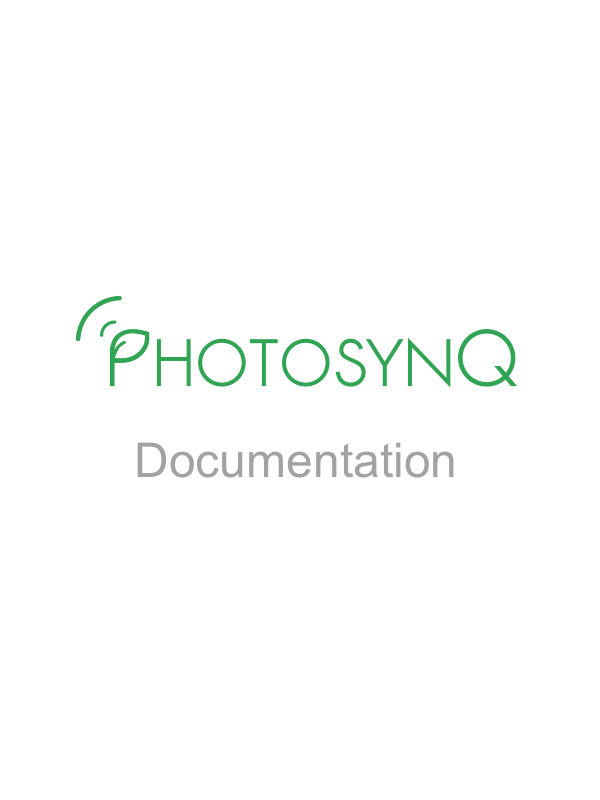
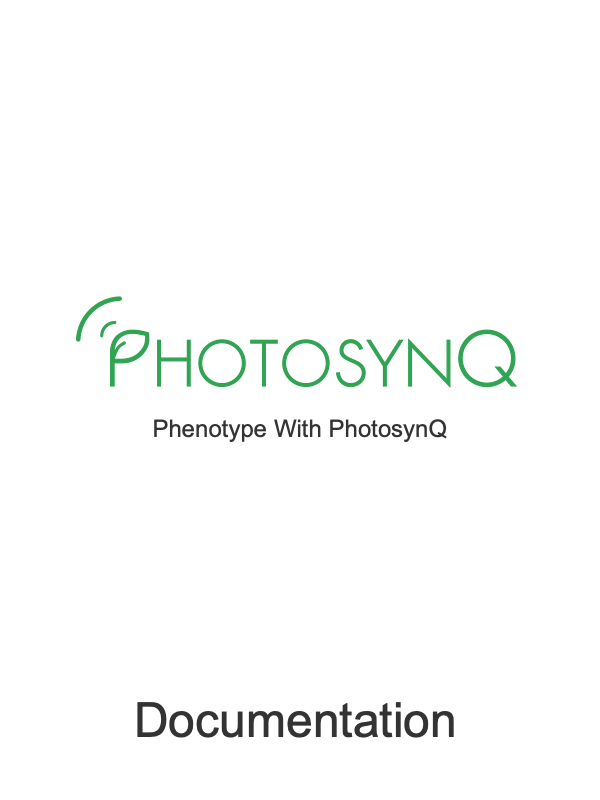
Update ebook
Adding figure legends, new cover, remove Contents title in TOC

diff --git a/index.js b/index.js
@@ -437,9 +437,7 @@ var createPDF = function (options){
 	});
 };
 
-
 var createEPUB = function (){
-
 	var cwd = jetpack.cwd();
 
     var option = {
@@ -450,6 +448,9 @@ var createEPUB = function (){
 		css: jetpack.read( jetpack.path( cwd, 'src', 'css', 'epub.css' ) ), // sting with css
 		// fonts: ,
 		lang: 'en',
+		tocTitle: 'Contents',
+		customHtmlTocTemplatePath: jetpack.path( cwd, 'src', 'templates', 'toc.xhtml.ejs' ),
+		customOpfTemplatePath: './src/templates/content.opf.ejs',
         cover: jetpack.path( cwd, 'src', 'css', 'epub-cover.png' ), // Url or File path, both ok.
 		content: [],
 		remarkable: {
@@ -470,6 +471,20 @@ var createEPUB = function (){
 		if(process.argv[i].match(/^-o|--output/)){
 			if(process.argv[(parseInt(i)+1)] !== undefined){
 				output = process.argv[(parseInt(i)+1)];
+			}
+			collect = false;
+			continue;
+		}
+		if(process.argv[i].match(/^-d|--date/)){
+			if(process.argv[(parseInt(i)+1)] !== undefined){
+				option.date = process.argv[(parseInt(i)+1)];
+			}
+			collect = false;
+			continue;
+		}
+		if(process.argv[i].match(/^-v|--version/)){
+			if(process.argv[(parseInt(i)+1)] !== undefined){
+				option.version = process.argv[(parseInt(i)+1)];
 			}
 			collect = false;
 			continue;
@@ -540,16 +555,56 @@ var createEPUB = function (){
 				chapters[chapterTitle] = "";
 				continue;
 			}
+			if(_html[i].match(/^<li>/)){
+				chapters[chapterTitle] += _html[i].replace(/^(\<li\>\s{0,})(\[x\])/i, "$1");
+				continue;
+			}
+			if(_html[i].match(/<em>Tip:<\/em>/)){
+				chapters[chapterTitle] += _html[i].replace(/^<p>/i, '<p class="tip">');
+				continue;
+			}
+			if(_html[i].match(/<em>Note:<\/em>/)){
+				chapters[chapterTitle] += _html[i].replace(/^<p>/i, '<p class="note">');
+				continue;
+			}
+			if(_html[i].match(/<img\/?[^>]+(>|$)/g)){
+				var img = '';
+				img += '<figure>';
+				img += _html[i].match(/<img\/?[^>]+(>|$)/)[0];
+				img += '<figcaption>';
+				var mdParser = new Remarkable(option.remarkable);
+				img += mdParser.render(_html[i].match(/(alt=)(\"([^>]+)(\"|$))/)[3]).replace(/<\/?p>/g, '');
+				img += '</figcaption>';
+				img += '</figure>';
+				chapters[chapterTitle] += _html[i].replace(/<img\/?[^>]+(>|$)/, img);
+				continue;
+			}
 			if(chapterTitle){
-				chapters[chapterTitle] += _html[i].replace(/images/i, jetpack.path(cwd, 'images'));
+				chapters[chapterTitle] += _html[i];
 			}
 		}
+		var date = moment(option.date).format('LL') || moment().format('LL');
+		var version = option.version || "unknown";
+
+		var header = '<div style="margin-top:45%; text-align:center">';
+			header += '<p>PhotosynQ Documentation</p>';
+			header += '<small>Modified: '+date+'</small><br>';
+			header += '<small>Version: '+version+'</small>';
+		header += '</div>';
+
+		option.content.push({
+			data: header,
+			excludeFromToc: true,
+			beforeToc: false
+		});
+
 		for(var c in chapters){
 			option.content.push({
 				title: entities.decode(c),
 				data: chapters[c]
 			});
 		}
+
 		new epub(option, output);
 		jetpack.remove(jetpack.path( cwd, 'dist', 'temp.md' ));
 	});
@@ -606,6 +661,8 @@ program
 	.option('-o, --output <output>','ePub File')
 	.option('-t, --title [title]','Ebook Title')
 	.option('-a, --author','Ebook Author(s)')
+	.option('-v, --version <version>','Version (Github tag)')
+	.option('-d, --date <date>','Release Date')
 	.description('Generate ePub from Markdown')
 	.action(createEPUB);
 

diff --git a/src/css/epub.css b/src/css/epub.css
@@ -1,7 +1,23 @@
+body {
+    font-family: "Times New Roman",serif;
+    font-size: 1em;
+    -webkit-hyphens:none;
+    text-align: justify;
+}
+
+h1 {
+    page-break-before: auto;
+}
+
 h3 {
     color: #277147;
     border-bottom:1px solid #a1a1a1;
 }
+
+h1, h2, h3, h4, h5, h6 {
+    page-break-after: avoid;
+}
+
 a {
     color: #277147;
 }
@@ -9,11 +25,21 @@ a {
 .text-muted {
     color: #737373;
 }
-thead, tfoot {
-    display: table-header-group !important;
+
+@page {
+    margin-top: 30px;
+    margin-bottom: 20px;
 }
 
 /* Additional Styles for PhotosynQ*/
+code {
+    padding: 2px 4px;
+    font-size: 90%;
+    color: #c7254e;
+    background-color: #f9f2f4;
+    white-space: nowrap;
+}
+
 pre {
     padding: 5px;
     background-color: transparent;
@@ -27,28 +53,70 @@ pre > code, pre, tt, code, kbd, samp {
     background-color: transparent;
     white-space: pre-wrap;
     padding: 1em;
+    page-break-inside: avoid;
 }
 
-body, a, h1, h2, h3, h4, h5, h6 {
-    font-family: Arial, "Helvetica Neue", Helvetica, sans-serif;
+table {
+    border-collapse: collapse;
 }
 
-tr th, tr td {
-    page-break-inside: avoid !important;
+thead, tfoot {
+    display: table-header-group !important;
 }
 
-thead tr {
-    background-color: #f5f5f5;
+/* tr, th, td {
+    margin: 0;
+    padding: 2px;
+    border: 1px solid black;
+    font-size: 100%;
+    vertical-align: baseline;
+} */
+
+thead th {
+    border-bottom:1px solid #a1a1a1;
 }
 
 tbody tr:nth-child(even) {
     background-color: #f5f5f5;
 }
 
-code {
-    padding: 2px 4px;
-    font-size: 90%;
-    color: #c7254e;
-    background-color: #f9f2f4;
-    white-space: nowrap;
+tr th, tr td {
+    padding: 0.2em;
+    page-break-inside: avoid !important;
+}
+
+ul{
+    list-style-type: square;
+}
+
+figure, figcaption {
+    width: 100% !important;
+    margin: 0px;
+}
+
+figcaption {
+    margin-top:5px;
+    font-size: 80%;
+}
+
+figcaption:before {
+    content: 'Fig. ';
+    font-weight: bolder;
+}
+
+/** Extra elements */
+.tip {
+    background-color: #d9edf7;
+    border: 1px solid #bce8f1;
+    padding:5px;
+}
+
+.note {
+    background-color: #fcf8e3;
+    border: 1px solid #faebcc;
+    padding:5px;
+}
+
+small {
+    font-size: 80%;
 }
